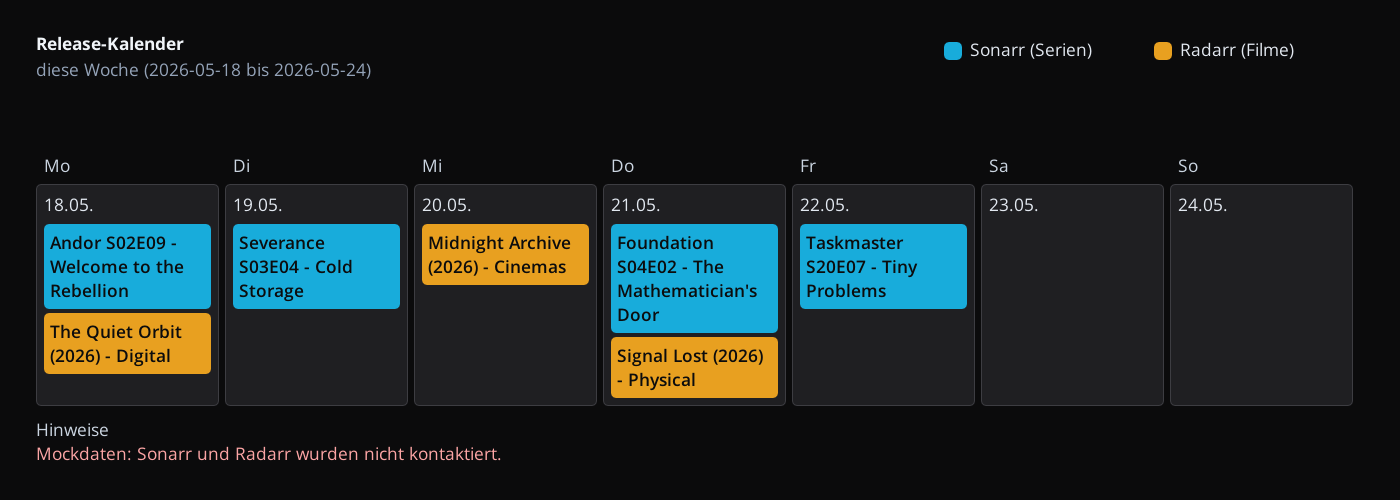
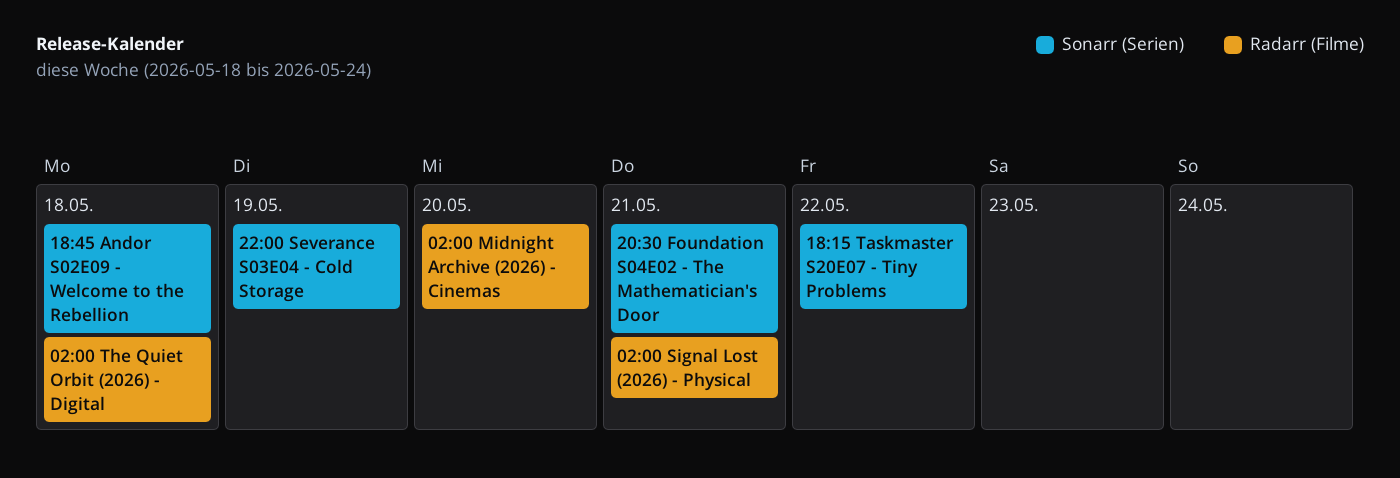
Refine release calendar layout and delay handling

diff --git a/internal/discord/releases_calendar.go b/internal/discord/releases_calendar.go
@@ -120,23 +120,19 @@ func (b *Bot) fetchReleaseCalendarItems(ctx context.Context, start, end time.Tim
 	if sonarrErr != nil {
 		warnings = append(warnings, "Sonarr: "+sonarrErr.Error())
 	} else {
-		items = append(items, sonarrCalendarItems(sonarrResult)...)
-		if delayWarning, ok := releaseCalendarDelayWarning("Sonarr", func() (any, error) {
+		delay := releaseCalendarUsenetDelay(func() (any, error) {
 			return registry.Call(ctx, "sonarr_list_delay_profiles", map[string]any{})
-		}); ok {
-			warnings = append(warnings, delayWarning)
-		}
+		})
+		items = append(items, delayReleaseCalendarItems(sonarrCalendarItems(sonarrResult), delay)...)
 	}
 	radarrResult, radarrErr := registry.Call(ctx, "radarr_get_calendar", args)
 	if radarrErr != nil {
 		warnings = append(warnings, "Radarr: "+radarrErr.Error())
 	} else {
-		items = append(items, radarrCalendarItems(radarrResult)...)
-		if delayWarning, ok := releaseCalendarDelayWarning("Radarr", func() (any, error) {
+		delay := releaseCalendarUsenetDelay(func() (any, error) {
 			return registry.Call(ctx, "radarr_list_delay_profiles", map[string]any{})
-		}); ok {
-			warnings = append(warnings, delayWarning)
-		}
+		})
+		items = append(items, delayReleaseCalendarItems(radarrCalendarItems(radarrResult), delay)...)
 	}
 	if sonarrErr != nil && radarrErr != nil {
 		return nil, warnings, fmt.Errorf("Sonarr und Radarr konnten nicht gelesen werden")
@@ -210,44 +206,36 @@ func radarrCalendarItems(value any) []releaseCalendarItem {
 	return items
 }
 
-func releaseCalendarDelayWarning(service string, load func() (any, error)) (string, bool) {
+func releaseCalendarUsenetDelay(load func() (any, error)) time.Duration {
 	value, err := load()
 	if err != nil {
-		return service + " Delay Profiles: " + err.Error(), true
+		return 0
 	}
 	profiles, _ := value.([]any)
-	var delays []string
+	maxDelay := 0
 	for _, profile := range profiles {
 		object, ok := profile.(map[string]any)
 		if !ok {
 			continue
 		}
 		delay := intFromInterface(object["usenetDelay"])
-		if delay <= 0 {
-			continue
+		if delay > maxDelay {
+			maxDelay = delay
 		}
-		label := strings.TrimSpace(stringFromMap(object, "name"))
-		if label == "" {
-			label = "Profil"
-		}
-		delays = append(delays, label+" "+formatReleaseCalendarDelay(delay))
 	}
-	if len(delays) == 0 {
-		return "", false
-	}
-	return service + " Usenet-Verzoegerung: " + strings.Join(delays, ", "), true
+	return time.Duration(maxDelay) * time.Minute
 }
 
-func formatReleaseCalendarDelay(minutes int) string {
-	if minutes < 60 {
-		return fmt.Sprintf("%d min", minutes)
+func delayReleaseCalendarItems(items []releaseCalendarItem, delay time.Duration) []releaseCalendarItem {
+	if delay <= 0 {
+		return items
 	}
-	hours := minutes / 60
-	remainingMinutes := minutes % 60
-	if remainingMinutes == 0 {
-		return fmt.Sprintf("%d h", hours)
+	delayed := make([]releaseCalendarItem, len(items))
+	for i, item := range items {
+		item.Date = item.Date.Add(delay)
+		delayed[i] = item
 	}
-	return fmt.Sprintf("%d h %d min", hours, remainingMinutes)
+	return delayed
 }
 
 type radarrReleaseDate struct {
@@ -257,19 +245,25 @@ type radarrReleaseDate struct {
 
 func radarrReleaseDates(object, movie map[string]any) []radarrReleaseDate {
 	candidates := []struct {
-		kind   string
-		values []any
+		kind    string
+		generic bool
+		values  []any
 	}{
 		{kind: "Digital", values: []any{object["digitalRelease"], movie["digitalRelease"]}},
 		{kind: "Physical", values: []any{object["physicalRelease"], movie["physicalRelease"]}},
 		{kind: "Cinemas", values: []any{object["inCinemas"], movie["inCinemas"]}},
-		{kind: "Release", values: []any{object["releaseDate"], movie["releaseDate"]}},
+		{kind: "Release", generic: true, values: []any{object["releaseDate"], movie["releaseDate"]}},
 	}
 	var releases []radarrReleaseDate
 	seen := map[string]bool{}
+	seenSpecificDate := map[string]bool{}
 	for _, candidate := range candidates {
 		date, ok := parseReleaseTime(candidate.values...)
 		if !ok {
+			continue
+		}
+		dateKey := date.Format("2006-01-02")
+		if candidate.generic && seenSpecificDate[dateKey] {
 			continue
 		}
 		key := candidate.kind + ":" + date.Format("2006-01-02")
@@ -277,6 +271,9 @@ func radarrReleaseDates(object, movie map[string]any) []radarrReleaseDate {
 			continue
 		}
 		seen[key] = true
+		if !candidate.generic {
+			seenSpecificDate[dateKey] = true
+		}
 		releases = append(releases, radarrReleaseDate{Date: date, Kind: candidate.kind})
 	}
 	return releases
@@ -320,9 +317,9 @@ func parseReleaseTime(values ...any) (time.Time, bool) {
 }
 
 func renderReleaseCalendarPNG(start, end time.Time, label string, items []releaseCalendarItem, warnings []string) ([]byte, error) {
-	const width = 1400
+	const fullWidth = 1400
+	const dayWidth = 760
 	const margin = 36
-	const headerHeight = 118
 	const weekdayHeight = 30
 	const dayHeaderHeight = 24
 	const rowGap = 12
@@ -332,7 +329,15 @@ func renderReleaseCalendarPNG(start, end time.Time, label string, items []releas
 	const itemGap = 4
 	const chipRadius = 5
 	const cellRadius = 5
-	const dayViewWidth = 360
+	const dayViewWidth = 560
+
+	isDayView := dayStart(end).Sub(dayStart(start)) <= 24*time.Hour
+	width := fullWidth
+	headerHeight := 118
+	if isDayView {
+		width = dayWidth
+		headerHeight = 118
+	}
 
 	face, err := releaseCalendarFontFace()
 	if err != nil {
@@ -357,7 +362,7 @@ func renderReleaseCalendarPNG(start, end time.Time, label string, items []releas
 
 	gridStart := calendarGridStart(start)
 	gridEnd := calendarGridEnd(end)
-	if dayStart(end).Sub(dayStart(start)) <= 24*time.Hour {
+	if isDayView {
 		gridStart = dayStart(start)
 		gridEnd = dayStart(end)
 	}
@@ -386,6 +391,10 @@ func renderReleaseCalendarPNG(start, end time.Time, label string, items []releas
 	gridWidth := width - margin*2
 	if columns == 1 && gridWidth > dayViewWidth {
 		gridWidth = dayViewWidth
+	}
+	gridX := margin
+	if columns == 1 {
+		gridX = (width - gridWidth) / 2
 	}
 	cellWidth := gridWidth / columns
 	chipTextWidth := cellWidth - cellPadding*2 - 14 - chipPadding*2
@@ -436,22 +445,19 @@ func renderReleaseCalendarPNG(start, end time.Time, label string, items []releas
 
 	img := image.NewRGBA(image.Rect(0, 0, width, height))
 	draw.Draw(img, img.Bounds(), &image.Uniform{C: releaseCalendarBackgroundColor}, image.Point{}, draw.Src)
-	drawText(img, boldFace, margin, 50, "Release-Kalender", color.RGBA{R: 241, G: 245, B: 249, A: 255})
-	drawText(img, face, margin, 76, label, color.RGBA{R: 148, G: 163, B: 184, A: 255})
-	drawLegend(img, face, width-margin-420, 42, "Sonarr (Serien)", sonarrReleaseColor)
-	drawLegend(img, face, width-margin-210, 42, "Radarr (Filme)", radarrReleaseColor)
+	drawReleaseCalendarHeader(img, face, boldFace, width, margin, label)
 
 	y := margin + headerHeight
 	for i := 0; i < columns; i++ {
 		weekday := shortWeekday(gridStart.AddDate(0, 0, i))
-		drawText(img, face, margin+i*cellWidth+cellPadding, y+18, weekday, color.RGBA{R: 203, G: 213, B: 225, A: 255})
+		drawText(img, face, gridX+i*cellWidth+cellPadding, y+18, weekday, color.RGBA{R: 203, G: 213, B: 225, A: 255})
 	}
 	y += weekdayHeight
 	for row := 0; row < rows; row++ {
 		rowHeight := rowHeights[row]
 		for col := 0; col < columns; col++ {
 			index := row*columns + col
-			x := margin + col*cellWidth
+			x := gridX + col*cellWidth
 			rect := image.Rect(x, y, x+cellWidth-6, y+rowHeight)
 			fill := releaseCalendarCellColor
 			border := releaseCalendarBorderColor
@@ -584,6 +590,33 @@ func chipHeight(lineCount, padding, ascent, descent, lineHeight int) int {
 		textHeight += (lineCount - 1) * lineHeight
 	}
 	return padding*2 + textHeight
+}
+
+func drawReleaseCalendarHeader(img *image.RGBA, face, boldFace font.Face, width, margin int, label string) {
+	const title = "Release-Kalender"
+	const titleY = 50
+	const subtitleY = 76
+	const legendY = 36
+	const legendGap = 40
+
+	drawText(img, boldFace, margin, titleY, title, color.RGBA{R: 241, G: 245, B: 249, A: 255})
+	drawText(img, face, margin, subtitleY, label, color.RGBA{R: 148, G: 163, B: 184, A: 255})
+
+	sonarrWidth := releaseCalendarLegendWidth(face, "Sonarr (Serien)")
+	radarrWidth := releaseCalendarLegendWidth(face, "Radarr (Filme)")
+	legendX := width - margin - sonarrWidth - legendGap - radarrWidth
+	minLegendX := margin + measureStringWidth(boldFace, title) + 48
+	if legendX < minLegendX {
+		legendX = minLegendX
+	}
+	drawLegend(img, face, legendX, legendY, "Sonarr (Serien)", sonarrReleaseColor)
+	drawLegend(img, face, legendX+sonarrWidth+legendGap, legendY, "Radarr (Filme)", radarrReleaseColor)
+}
+
+func releaseCalendarLegendWidth(face font.Face, label string) int {
+	const swatchSize = 18
+	const labelGap = 8
+	return swatchSize + labelGap + measureStringWidth(face, label)
 }
 
 func drawLegend(img *image.RGBA, face font.Face, x, y int, label string, c color.RGBA) {

diff --git a/internal/discord/releases_calendar_test.go b/internal/discord/releases_calendar_test.go
@@ -171,6 +171,26 @@ func TestRadarrCalendarItemsEmitsSeparateReleaseKinds(t *testing.T) {
 	}
 }
 
+func TestRadarrCalendarItemsSkipsGenericReleaseWhenSpecificReleaseExists(t *testing.T) {
+	items := radarrCalendarItems([]any{map[string]any{
+		"title":          "Project Hail Mary",
+		"year":           2026,
+		"digitalRelease": "2026-05-12",
+		"releaseDate":    "2026-05-12",
+	}})
+
+	var releases []string
+	for _, item := range items {
+		releases = append(releases, item.Date.Format("2006-01-02")+" "+item.Title)
+	}
+	if !slices.Contains(releases, "2026-05-12 Project Hail Mary (2026) - Digital") {
+		t.Fatalf("releases = %#v, missing digital release", releases)
+	}
+	if slices.Contains(releases, "2026-05-12 Project Hail Mary (2026) - Release") {
+		t.Fatalf("releases = %#v, generic release duplicated digital date", releases)
+	}
+}
+
 func writeJSON(t *testing.T, w http.ResponseWriter, value any) {
 	t.Helper()
 	w.Header().Set("Content-Type", "application/json")

diff --git a/internal/discord/release_calendar_imagegen_test.go b/internal/discord/release_calendar_imagegen_test.go
@@ -34,6 +34,14 @@ func TestGenerateReleaseCalendarMockImages(t *testing.T) {
 		{Service: "Sonarr", Date: time.Date(2026, 6, 27, 20, 30, 0, 0, location), Title: "Doctor Who S16E08 - A Map of Storms", Color: sonarrReleaseColor},
 		{Service: "Radarr", Date: time.Date(2026, 6, 30, 0, 0, 0, 0, location), Title: "Last Train North (2026) - Digital", Color: radarrReleaseColor},
 	}
+	for i, item := range items {
+		switch item.Service {
+		case "Sonarr":
+			items[i].Date = item.Date.Add(45 * time.Minute)
+		case "Radarr":
+			items[i].Date = item.Date.Add(2 * time.Hour)
+		}
+	}
 
 	cases := []struct {
 		filename string
@@ -62,7 +70,7 @@ func TestGenerateReleaseCalendarMockImages(t *testing.T) {
 	}
 
 	for _, tc := range cases {
-		data, err := renderReleaseCalendarPNG(tc.start, tc.end, tc.label, items, []string{"Mockdaten: Sonarr und Radarr wurden nicht kontaktiert."})
+		data, err := renderReleaseCalendarPNG(tc.start, tc.end, tc.label, items, nil)
 		if err != nil {
 			t.Fatalf("renderReleaseCalendarPNG(%s) error = %v", tc.filename, err)
 		}